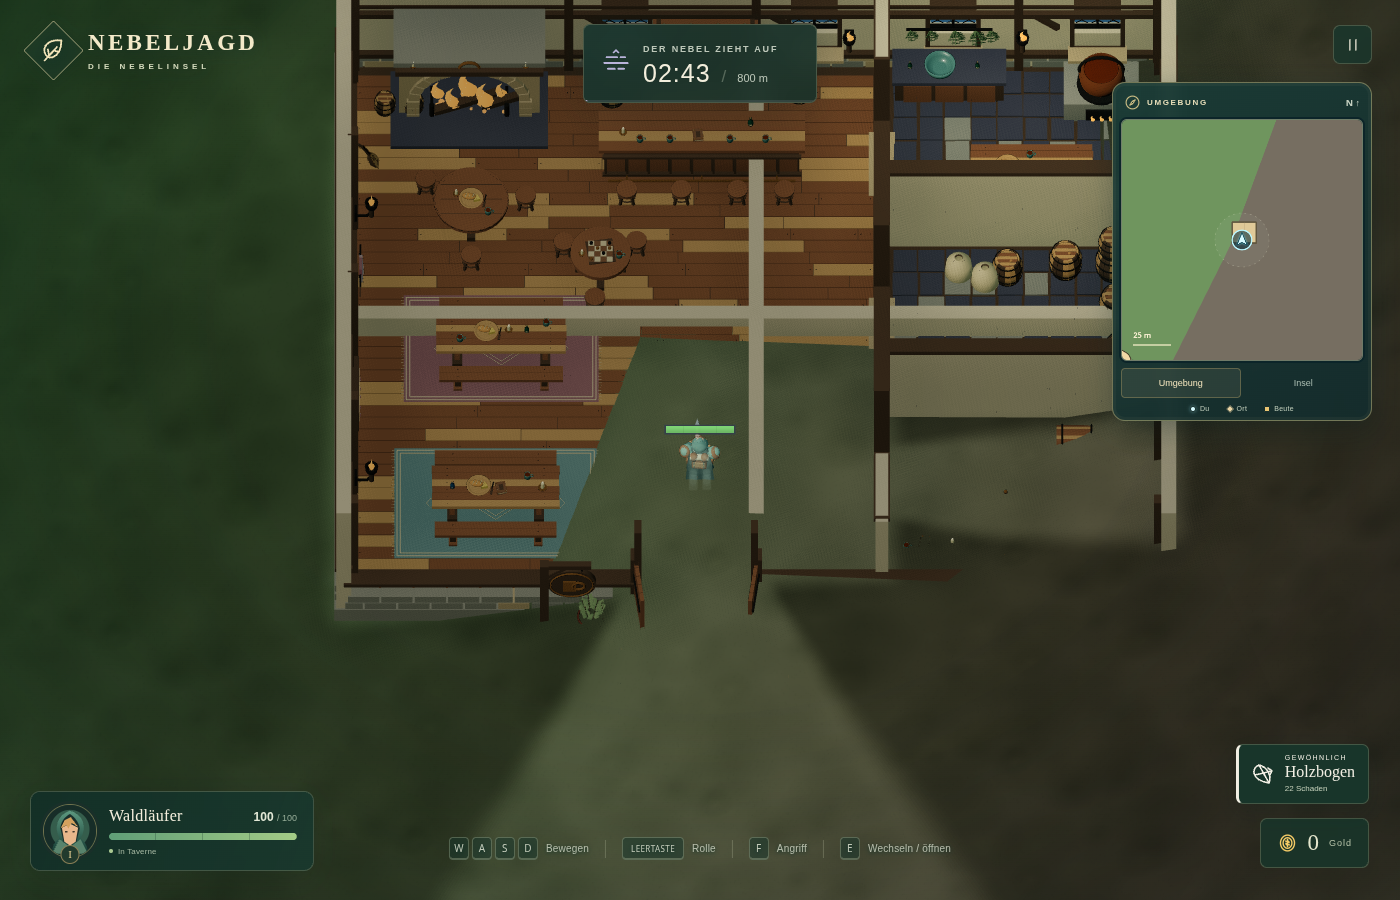
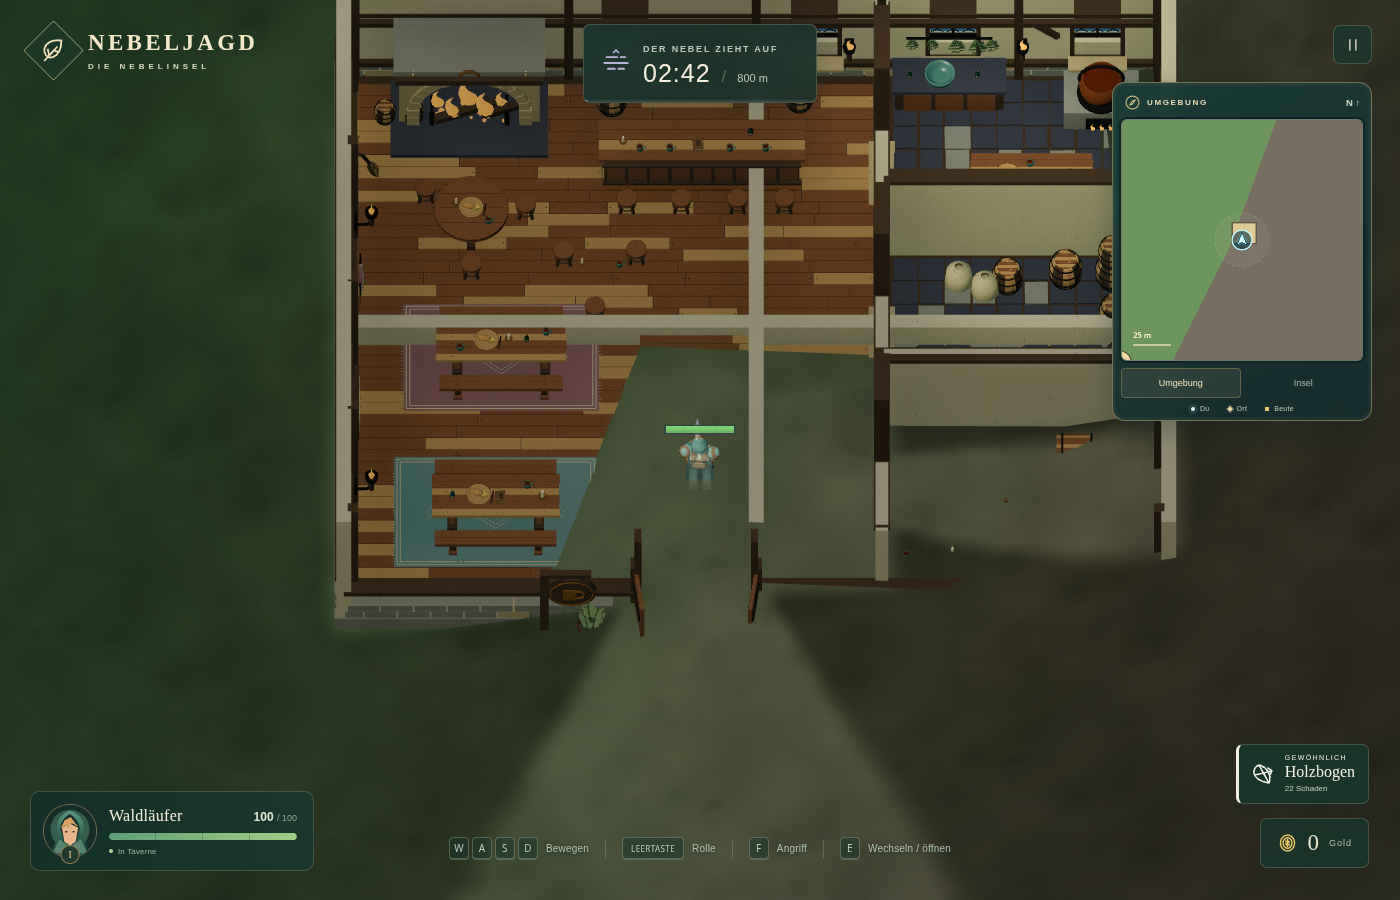
Reduce tavern interior clutter

diff --git a/src/environment-kit.js b/src/environment-kit.js
@@ -2,6 +2,7 @@ import * as THREE from 'three';
 import { GLTFLoader } from 'three/addons/loaders/GLTFLoader.js';
 import { mergeGeometries } from 'three/addons/utils/BufferGeometryUtils.js';
 import { getEnvironmentKitDefinition } from './map/environment-kit-definitions.js';
+import { shouldOmitTavernDetail, TAVERN_DRESSING } from './map/tavern-dressing.js';
 import pineHigh from '../Blender/nebeljagd_umwelt_kit_v1/assets/pine_high.glb?url&inline';
 import pineYoung from '../Blender/nebeljagd_umwelt_kit_v1/assets/pine_young.glb?url&inline';
 import oakGreen from '../Blender/nebeljagd_umwelt_kit_v1/assets/oak_green.glb?url&inline';
@@ -173,8 +174,12 @@ export async function loadEnvironmentKit(map, { wind } = {}) {
       // 200 m presentation floor and merge its 3,247 source pieces by material
       // so the runtime renders a few dozen meshes instead of thousands.
       const batches = new Map();
+      let omittedDetailMeshes = 0;
       gltf.scene.traverse(mesh => {
         if (!mesh.isMesh) return;
+        const ancestors = [];
+        for (let parent = mesh.parent; parent && parent !== gltf.scene; parent = parent.parent) ancestors.push(parent.name);
+        if (shouldOmitTavernDetail(mesh.name, ancestors)) { omittedDetailMeshes++; return; }
         const sourceMaterial = Array.isArray(mesh.material) ? mesh.material[0] : mesh.material;
         if (mesh.name === 'Studio_Boden' || /Praesentation/i.test(sourceMaterial?.name ?? '')) return;
         if (!sourceMaterial) return;
@@ -198,7 +203,8 @@ export async function loadEnvironmentKit(map, { wind } = {}) {
         if (!mesh.isMesh) return;
         mesh.geometry.dispose(); for (const material of Array.isArray(mesh.material) ? mesh.material : [mesh.material]) material.dispose();
       });
-      result.set(key, { ...definition, parts, roofRemoved: true, embedded: true, raisedWalls: true });
+      result.set(key, { ...definition, parts, roofRemoved: true, embedded: true, raisedWalls: true,
+        reducedDressing: true, omittedDetailMeshes, dressingRootsOmitted: TAVERN_DRESSING.omittedRoots.length });
       return;
     }
     const groups = new Map();

diff --git a/tests/environment_kit.test.js b/tests/environment_kit.test.js
@@ -5,6 +5,7 @@ import {createHash} from 'node:crypto';
 import {ENVIRONMENT_KIT_DEFINITIONS,getEnvironmentKitDefinition} from '../src/map/environment-kit-definitions.js';
 import {createCollisionIndex} from '../src/collision.js';
 import {buildKitGrassPatch,MAX_KIT_GRASS_INSTANCES} from '../src/vegetation-patches.js';
+import {TAVERN_DRESSING,shouldOmitTavernDetail} from '../src/map/tavern-dressing.js';
 
 test('the environment kit keeps its published sources and the user tavern remains a separate GLB asset',async()=>{
  const root=new URL('../Blender/nebeljagd_umwelt_kit_v1/',import.meta.url);
@@ -58,6 +59,18 @@ test('the open-roof tavern keeps its front doorway and room entrances passable w
  assert.ok(index.traceSegment({x:0,y:3.3,z:3},{x:6,y:3.3,z:3},.08),'3.8 m partitions block movement and shots');
  assert.equal(tavern.walls[0].maxY,4.8);assert.equal(tavern.walls[1].maxY,4.8);assert.equal(tavern.walls[5].maxY,3.8);
  assert.equal(tavern.roofless,true);
+});
+
+test('the tavern keeps its landmarks while selective dressing opens sightlines and floor space',()=>{
+ assert.equal(TAVERN_DRESSING.omittedRoots.length,22);
+ assert.ok(shouldOmitTavernDetail('Stool seat',['Round stool_026']));
+ assert.ok(shouldOmitTavernDetail('Vintage bottle glass',['Vintage bottle_013']));
+ assert.ok(shouldOmitTavernDetail('Barrel stave',['Oak ale barrel_004']));
+ assert.ok(shouldOmitTavernDetail('Spielbrett_Feld.004'));
+ assert.ok(!shouldOmitTavernDetail('Stool seat',['Round stool_001']));
+ assert.ok(!shouldOmitTavernDetail('Vintage bottle glass',['Vintage bottle_012']));
+ assert.ok(!shouldOmitTavernDetail('Curved barrel stave',['Oak ale barrel_001']));
+ assert.ok(!shouldOmitTavernDetail('Runder_Tisch_Brettplatte'));
 });
 
 test('authored grass uses a bounded number of complete clusters and keeps height independent of its footprint',()=>{

diff --git a/src/world-object-renderer.js b/src/world-object-renderer.js
@@ -214,7 +214,8 @@ export async function createWorldObjectRenderer(root, { map, heightAt, groundHei
     prototypes.set(`tree:${variant}`, [{ geometry: trunk.geometry, material: trunk.material, castShadow: true }, { geometry: near.geometry, lowGeometry: far.geometry, material: near.material, castShadow: true, foliage: true }]);
   }
   const importedAssets = { loaded: true, loadedGLBs: 5 + kitModels.size, trees: 0, bushes: 0, flowers: 0, beds: 0, placements: [], sources: ['Rei_treeLeavesGN.glb', 'Rei_treeLeavesGN_samples.glb', 'Rei_flowersGN_sample.blend', 'grassGN3_3_v2_Rei.glb', ...[...kitModels.values()].map(model => `${model.asset}.glb`)], grassSourceContainsBlades: false,
-    environmentKit: [...kitModels.values()].map(model => ({ id: model.id, asset: model.asset, targetHeight: model.targetHeight, height: model.height, parts: model.parts.length, roofRemoved: model.roofRemoved })) };
+    environmentKit: [...kitModels.values()].map(model => ({ id: model.id, asset: model.asset, targetHeight: model.targetHeight, height: model.height, parts: model.parts.length,
+      roofRemoved: model.roofRemoved, reducedDressing: model.reducedDressing, omittedDetailMeshes: model.omittedDetailMeshes })) };
   const stems = new Map();
   for (const [variant, gltf, nativeHeight, stem] of [['rei-tree01', tree01, 5.8, [.1719965339, 0, .1021305472]], ['rei-tree02', tree02, 5.2, [-.074421525, 0, .008194566]], ['rei-bush', bush, 1.1, null]]) {
     const model = normalizedParts(gltf.scene, nativeHeight, mesh => /leaf|leaves|foliage|crown/i.test(`${mesh.name} ${mesh.material?.name}`) ? (stem ? foliage : bushFoliage) : bark);

diff --git a/src/map/tavern-dressing.js b/src/map/tavern-dressing.js
@@ -1,0 +1,23 @@
+/** Selective runtime cut of the imported tavern's busiest repeated props.
+ * The authored GLB remains untouched; groups are identified by their Blender
+ * parent names so every child mesh of a bottle, barrel or stool is removed. */
+export const TAVERN_DRESSING = Object.freeze({
+  omittedRoots: Object.freeze([
+    'Round stool_002', 'Round stool_004', 'Round stool_026', 'Round stool_027', 'Round stool_028',
+    'Oak ale barrel_002', 'Oak ale barrel_004', 'Oak ale barrel_005', 'Oak ale barrel_004.001', 'Oak ale barrel_031',
+    'Vintage bottle_013', 'Vintage bottle_014', 'Vintage bottle_016', 'Vintage bottle_017.001',
+    'Vintage bottle_020', 'Vintage bottle_021', 'Vintage bottle_023', 'Vintage bottle_024',
+    'Ale tankard_006.001', 'Ale tankard_007.001', 'Ale tankard_027', 'Ale tankard_028',
+  ]),
+  omittedMeshes: Object.freeze([
+    /^Spieltisch_/i, /^Spielbrett(?:_|$)/i, /^(?:Dunkle|Goldene)_Spielfigur/i,
+  ]),
+});
+
+const omittedRoots = new Set(TAVERN_DRESSING.omittedRoots);
+
+export function shouldOmitTavernDetail(meshName, ancestorNames = []) {
+  return omittedRoots.has(meshName)
+    || ancestorNames.some(name => omittedRoots.has(name))
+    || TAVERN_DRESSING.omittedMeshes.some(pattern => pattern.test(meshName));
+}

diff --git a/tests/environment_kit_smoke.py b/tests/environment_kit_smoke.py
@@ -185,7 +185,9 @@ try:
         kit_stats=first['world']['stats']['environmentKit']
         assert kit_stats['loadedModels']==13 and kit_stats['placements']==13,kit_stats
         assert {model['id'] for model in kit_stats['models']}==set(BY_ID)
-        passed('Exported kit JSON reaches the game unchanged and all thirteen kit GLBs load alongside the five existing Rei GLBs',first['world']['stats'])
+        tavern_model=next(model for model in kit_stats['models'] if model['id']=='house:kit-taverne')
+        assert tavern_model['height']==4.8 and tavern_model['reducedDressing'] and tavern_model['omittedDetailMeshes']>0,tavern_model
+        passed('The roofless tavern loads at full wall height with its selected dressing cut applied',tavern_model)
         inspect(game,[-66,35],math.pi);capture(game,'trees')
 
         for kind,variant,keys in [('wall','kit-stone',['w','a']),('fence','kit-wood',['w','d']),('crate','kit-wood',['a'])]:
